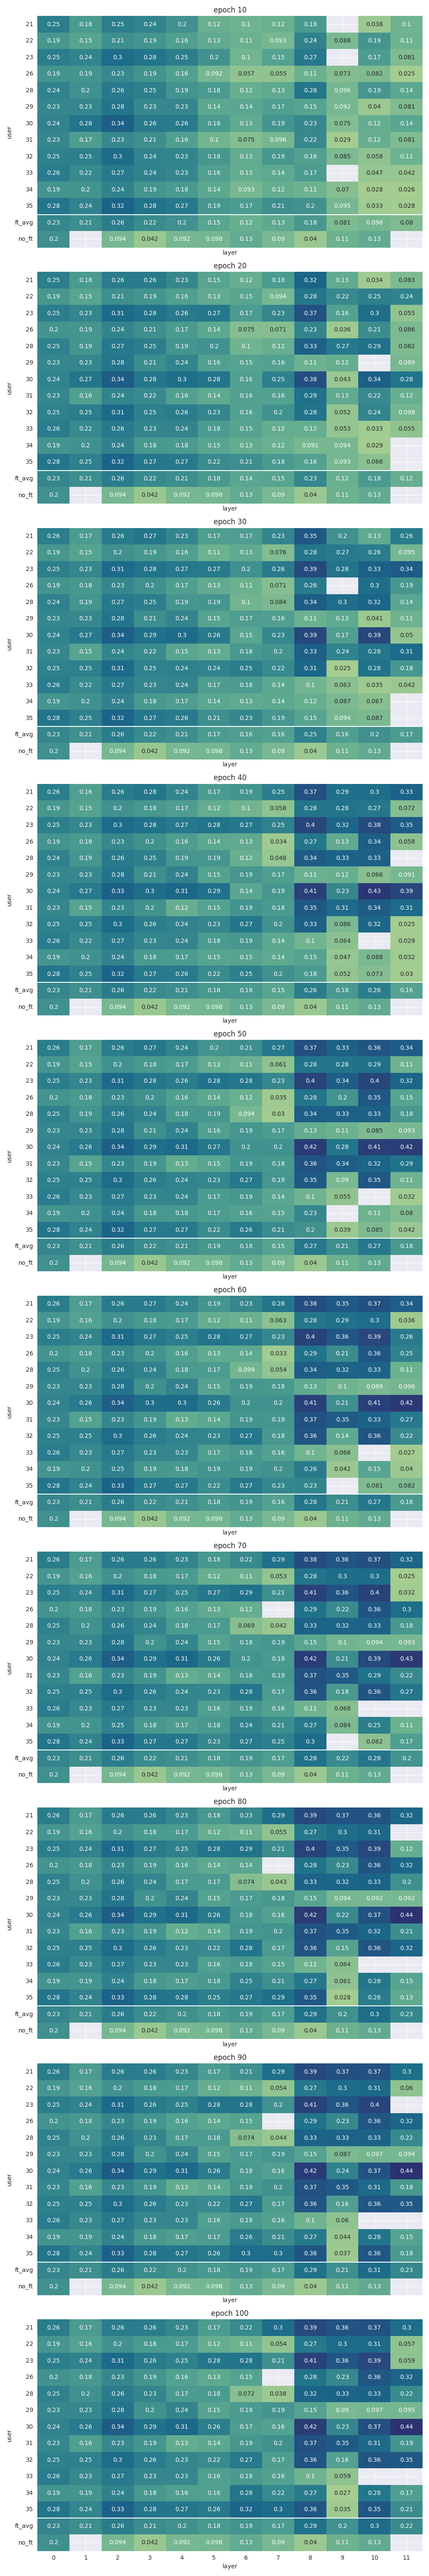
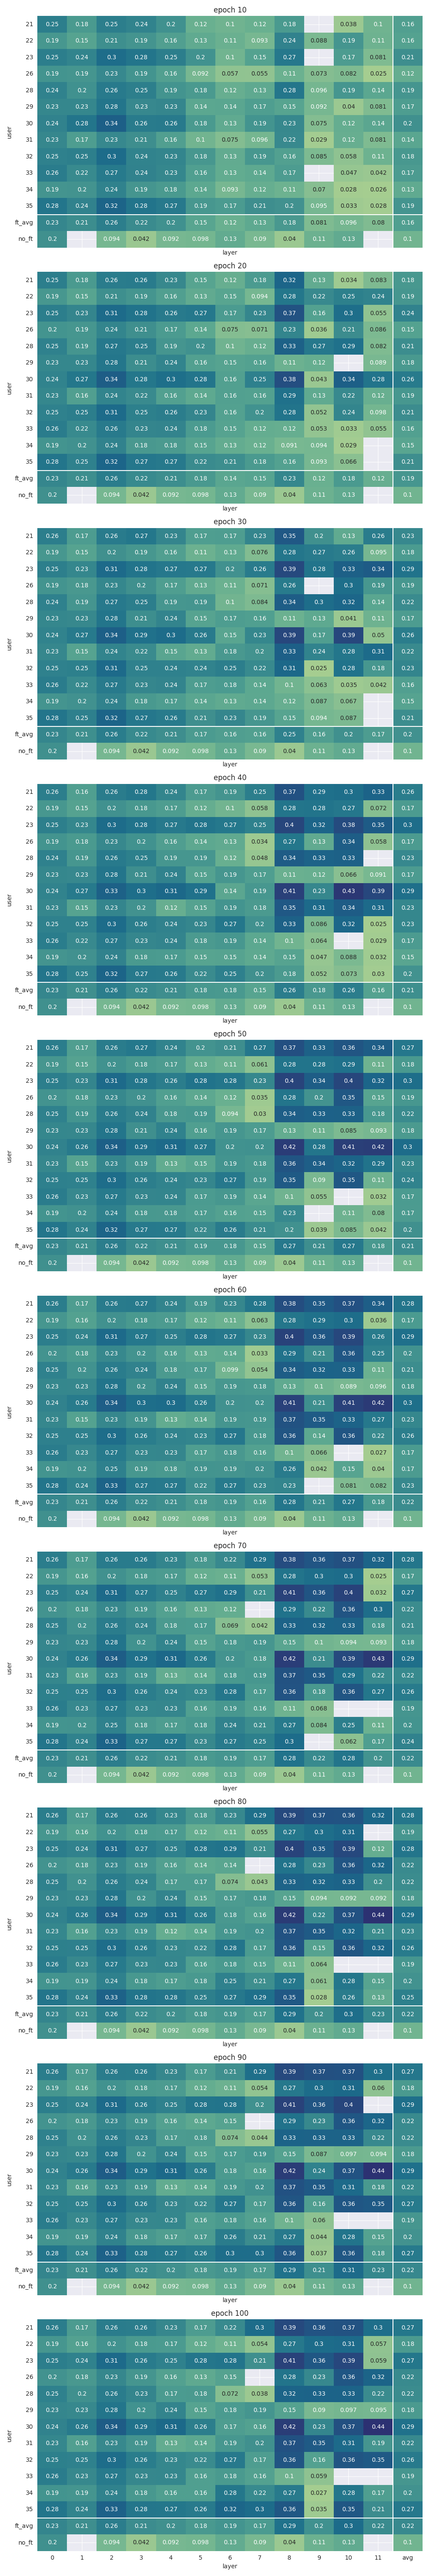
added average column to attention correlation plots

Changed region(s): [[0.186, 0.0, 0.992, 0.9973], [0.186, 0.0, 0.217, 0.0623]]

diff --git a/scripts/eval/attention_correlation.py b/scripts/eval/attention_correlation.py
@@ -69,10 +69,13 @@ def plot_correlations(correlation_df, plot_path, grouping_variable='epoch'):
 
     for idx, value in enumerate(var_values):
         pivoted_df = correlation_df[correlation_df[grouping_variable] == value].pivot(index='user', columns='layer', values='correlation')
+        pivoted_df['avg'] = pivoted_df.mean(axis=1)
         plot = sns.heatmap(data=pivoted_df, annot=True, cmap='crest', cbar=False, ax=axes[idx], vmin=vmin, vmax=vmax)
         axes[idx].set_title(f'{grouping_variable} {value}')
         axes[idx].set_yticklabels(axes[idx].get_yticklabels(), rotation=0)
         plot.hlines([12], *plot.get_xlim(), color='white')
+        plot.vlines([12], *plot.get_ylim(), color='white')
+
 
     plt.tight_layout()
     fig.savefig(plot_path)
@@ -159,7 +162,7 @@ def main():
     # Add average user correlation
     mean_correlation_row = compute_average_user_correlation(all_correlations_df, grouping_variable)
     all_correlations_df = pd.concat([all_correlations_df, mean_correlation_row], ignore_index=True)
-
+    # all_correlations_df['avg'] = all_correlations_df.mean(axis=1)
 
     plot_correlations(all_correlations_df, plot_path, grouping_variable)
 
